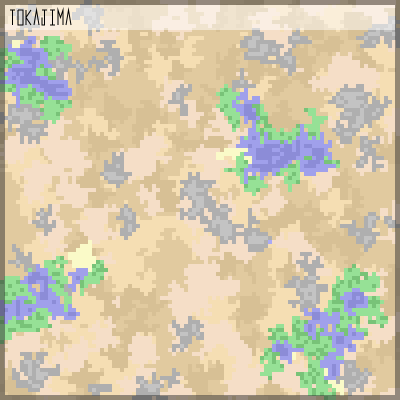
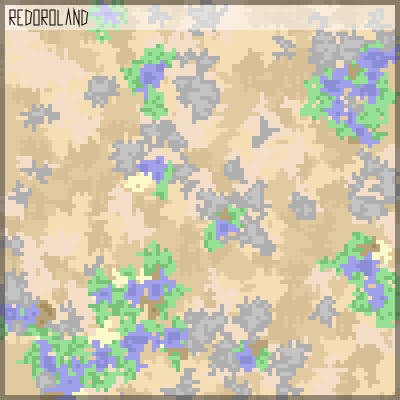
villages seeding

diff --git a/modules/map_generator.js b/modules/map_generator.js
@@ -47,7 +47,8 @@ let map_colours =[
     "rgb(150,225,150)",//10 grass
     "rgb(250,250,200)",//11 sand
     "rgb(120,195,120)",//12 trees
-
+    "rgb(185,162,119)",//13 village ground
+    "rgb(165,142,089)" //14 major village ground
 ];
 
 //handy references to the colours above
@@ -64,6 +65,8 @@ const DEEP_LAKE = 9;
 const GRASS = 10;
 const SAND = 11;
 const TREES = 12;
+const VILLAGE = 13;
+const MAJOR_VILLAGE = 14;
 
 //Creates a base map of a single colour specified by index
 let initialise_map = function(size,index){
@@ -153,7 +156,7 @@ let distance_between = function(x,y,ax,ay){
 let seed_element = function(map,el,test,chance){
     chance = chance ? chance : 0.01;
     return apply(map,(clone,x,y)=>if_maybe(
-                                        test(clone[y][x]),
+                                        test(clone[y][x],x,y),
                                         chance,el,clone[y][x]
                                 )
                 );
@@ -290,6 +293,20 @@ let generate_sand = function(map){
     return map;
 };
 
+let generate_village = function(map){
+    let test = (v)=>is_any(v,GROUND,HIGH_GROUND,HILL,GRASS)
+    map = seed_element_next_to(map,VILLAGE,
+        test,
+        LAKE,0.02);
+    map = extend_element(map,VILLAGE,test,1.0);
+    map = extend_element(map,VILLAGE,test,1.0);
+    map = extend_element(map,VILLAGE,test,0.75);
+    map = extend_element(map,VILLAGE,test,0.5);
+    map = fill_in_element(map,VILLAGE,test,2);
+    map = fill_in_other(map,MAJOR_VILLAGE,(v)=>is(v,VILLAGE),VILLAGE);
+    return map;
+};
+
 //This kind of function organises a set of map operations in order
 let generated_map = function(size){
     let map = initialise_map(size,GROUND);
@@ -300,6 +317,7 @@ let generated_map = function(size){
     map = generate_grass(map);
     map = generate_trees(map);
     map = generate_sand(map);
+    map = generate_village(map);
     return map;
 };
 
